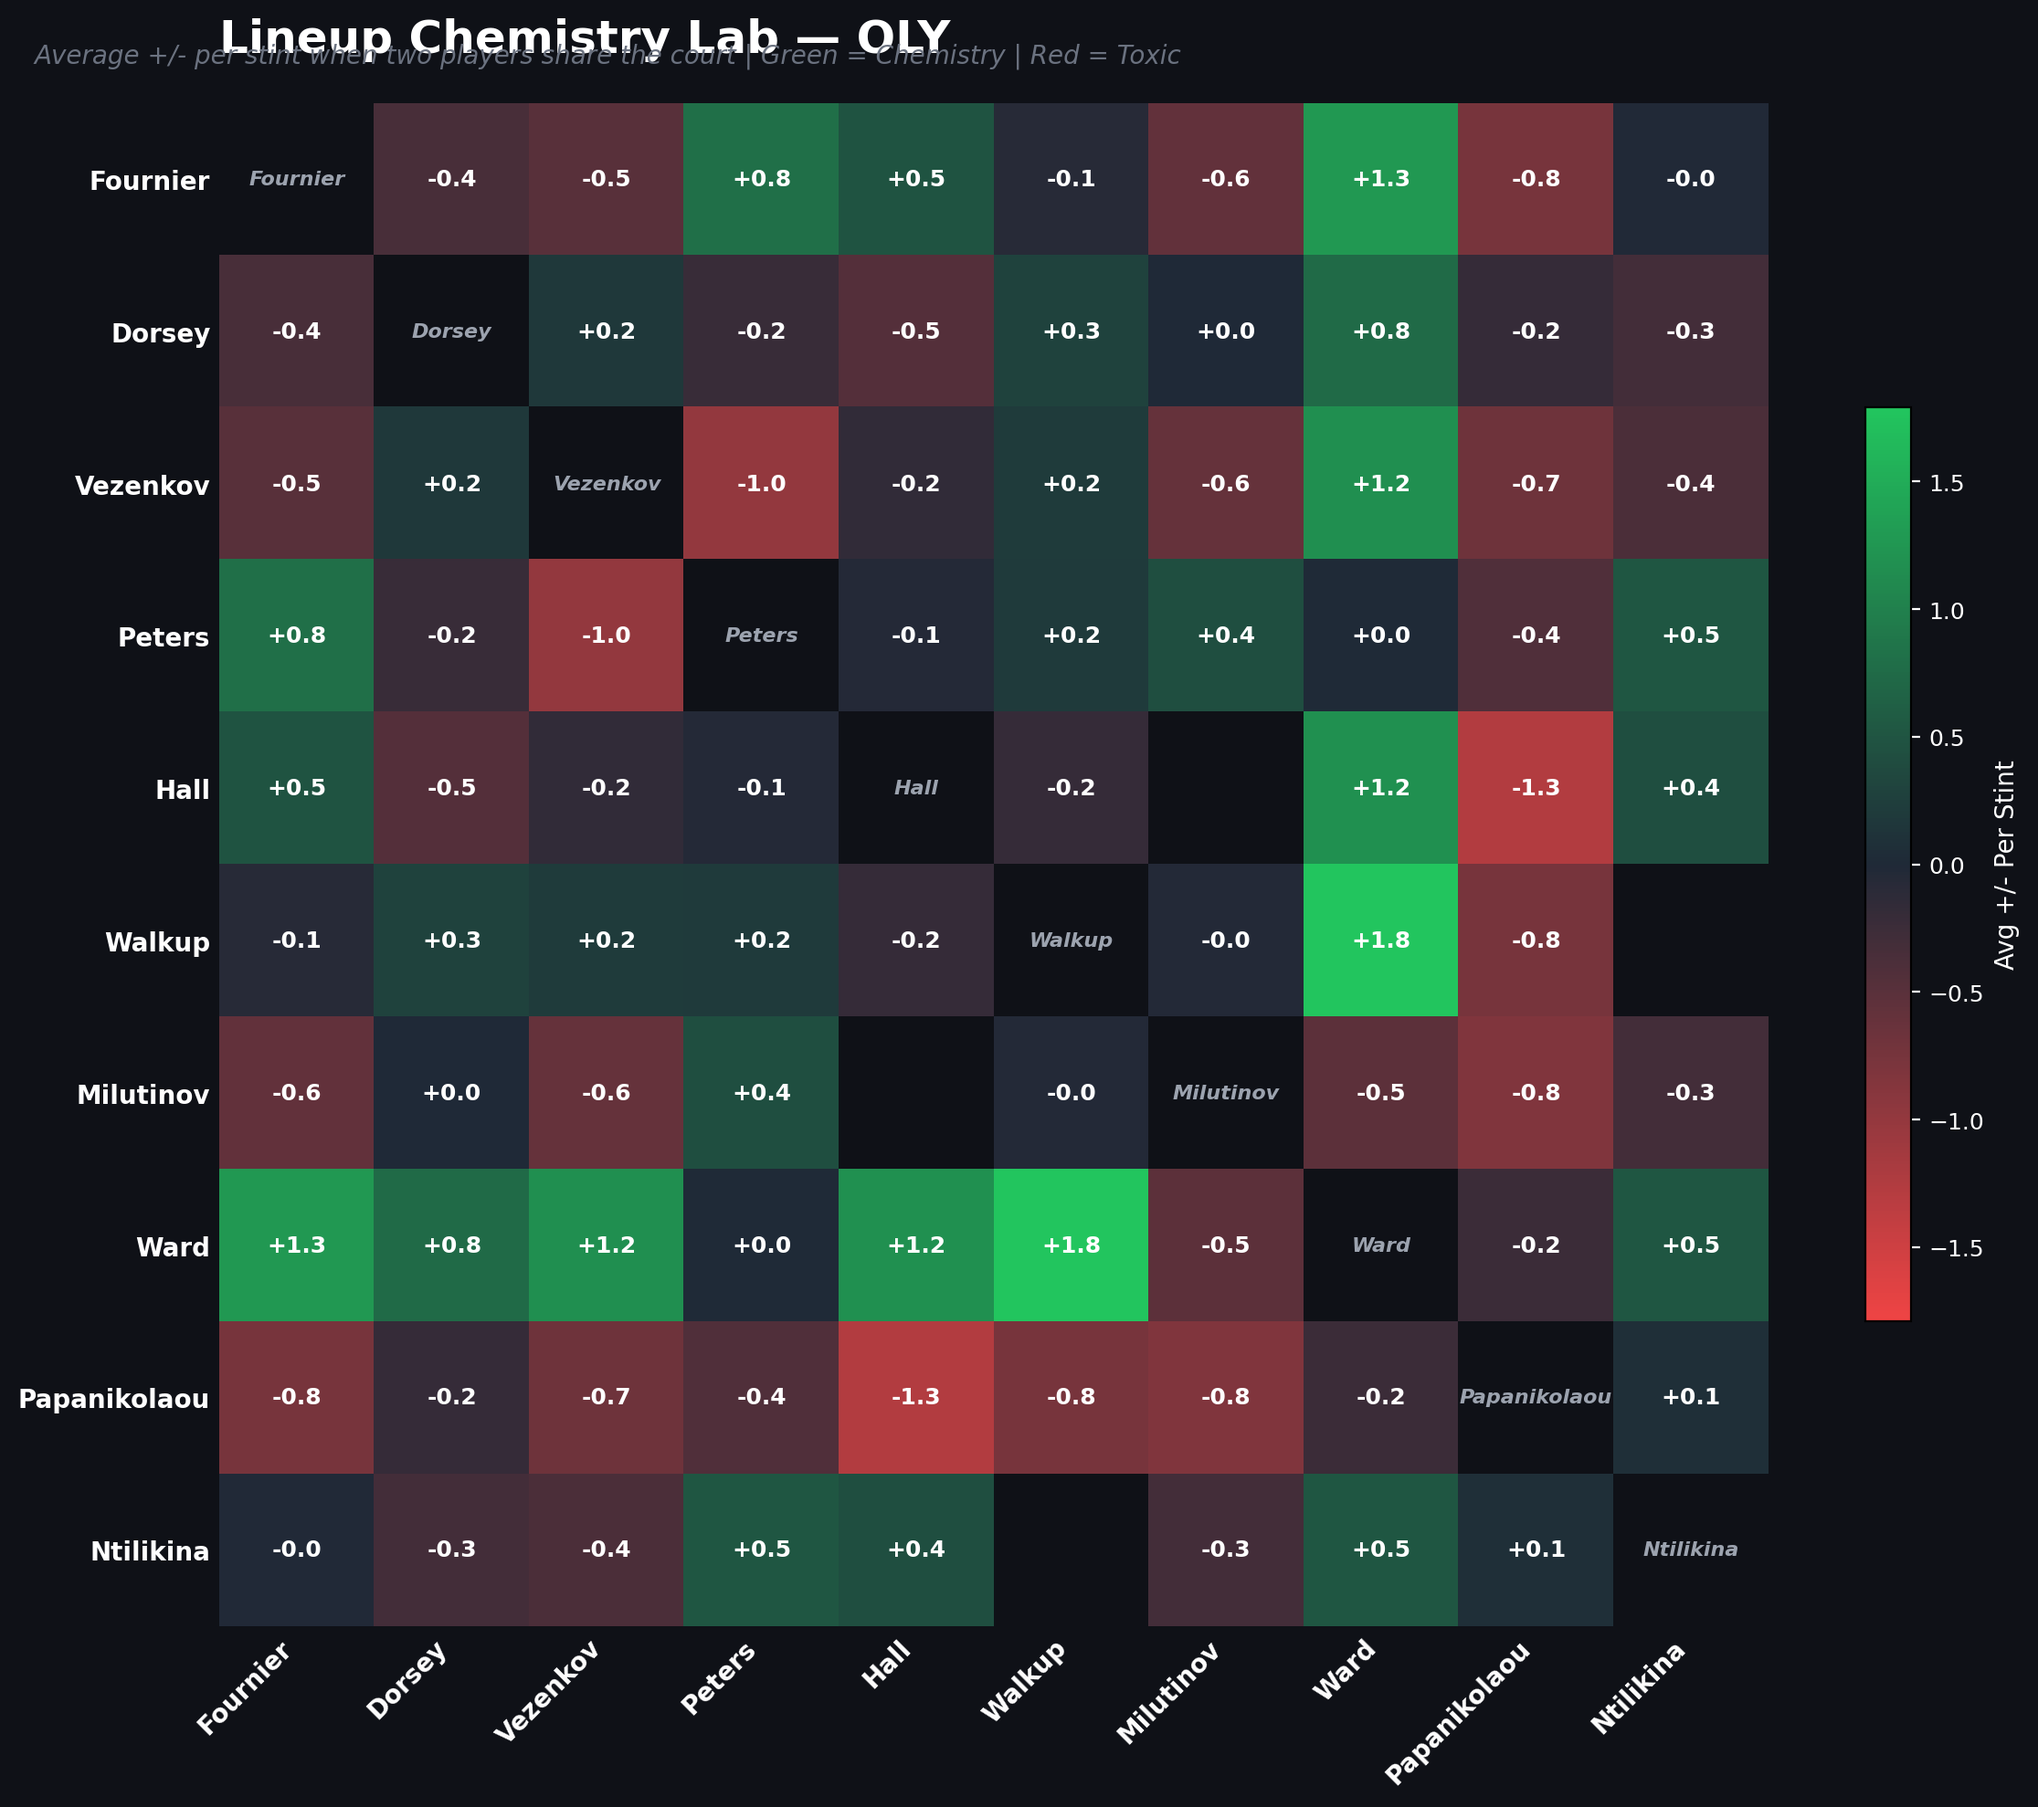
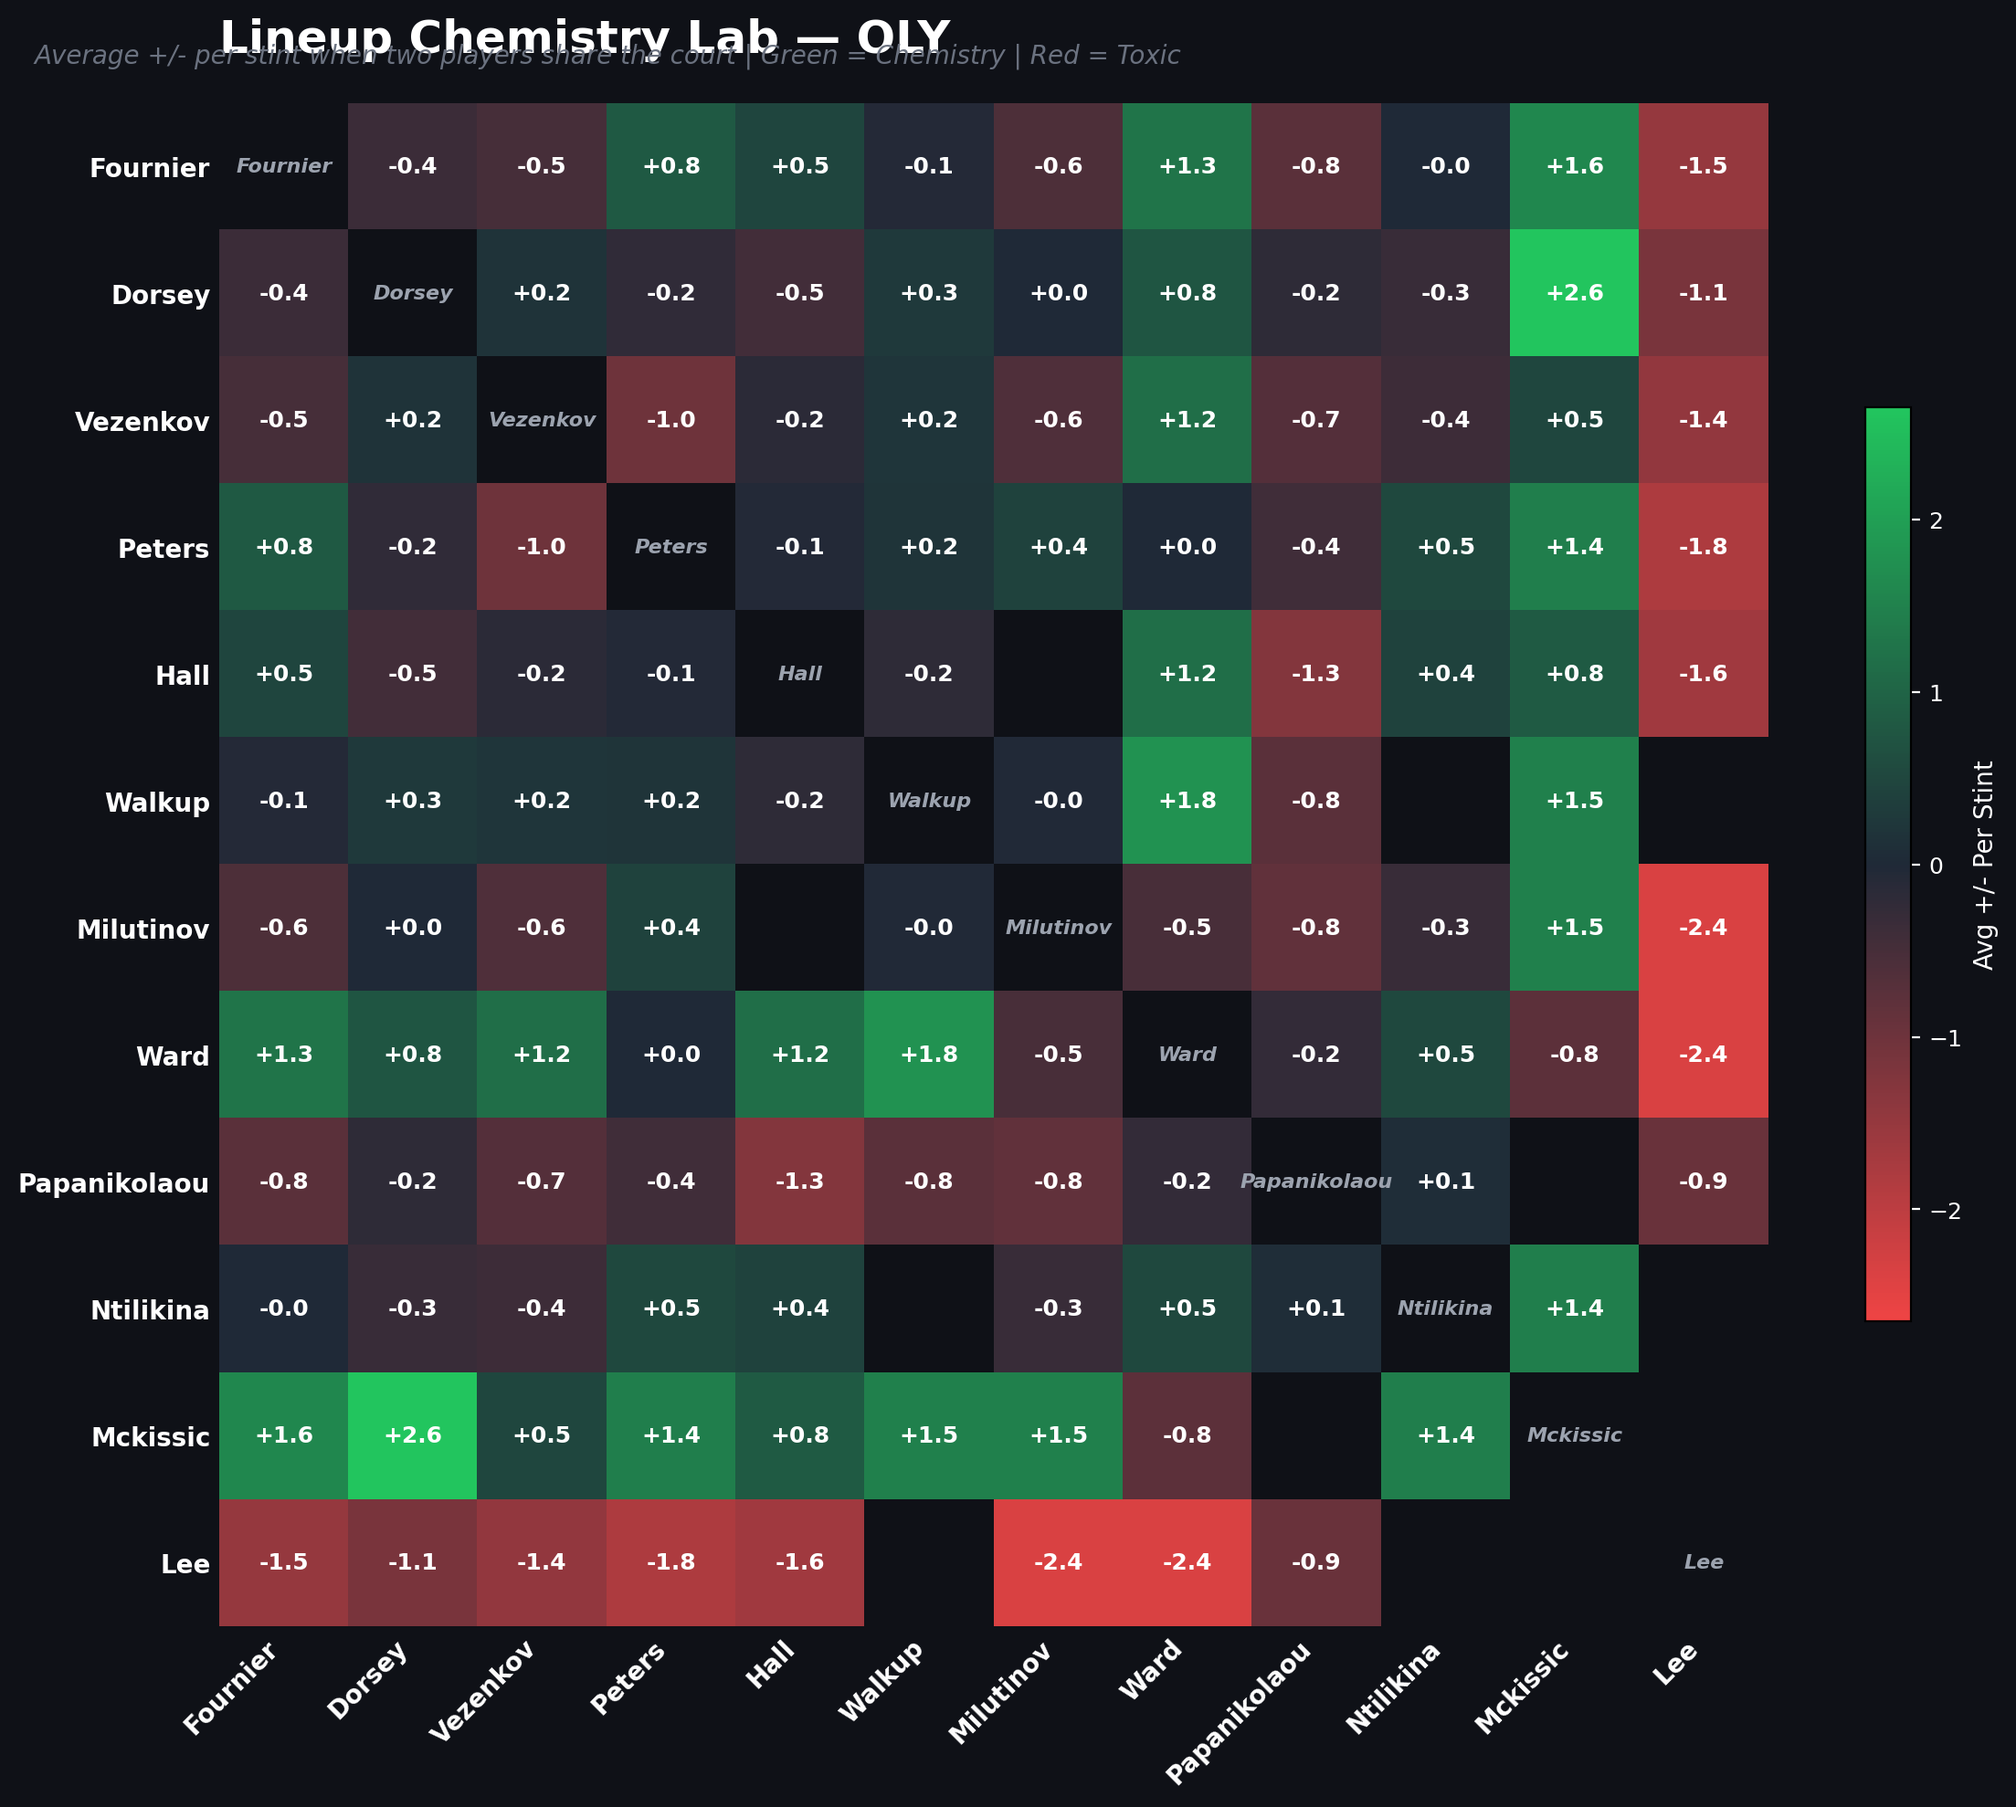
fix: Expand chemistry matrix to 12 players for better coverage

diff --git a/lineup_chemistry.py b/lineup_chemistry.py
@@ -172,7 +172,7 @@ def visualize_matrix(team_code, df):
     for _, r in df.iterrows():
         for p in [r['Player1'], r['Player2']]:
             player_stints[p] = player_stints.get(p, 0) + r['Stints']
-    top_players = sorted(player_stints, key=lambda x: -player_stints[x])[:10]
+    top_players = sorted(player_stints, key=lambda x: -player_stints[x])[:12]
 
     n = len(top_players)
     matrix = np.full((n, n), np.nan)
